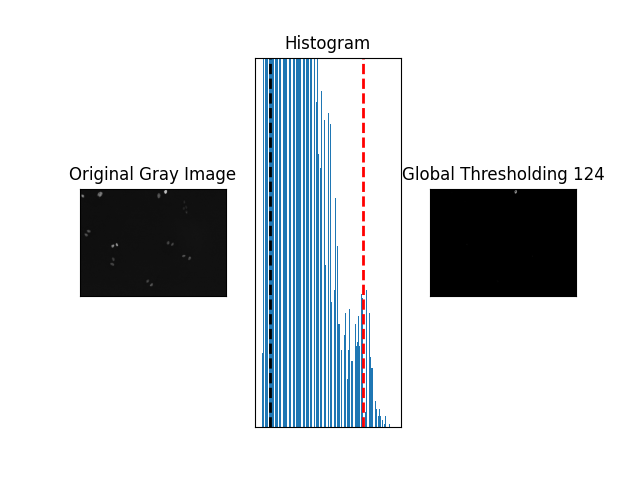
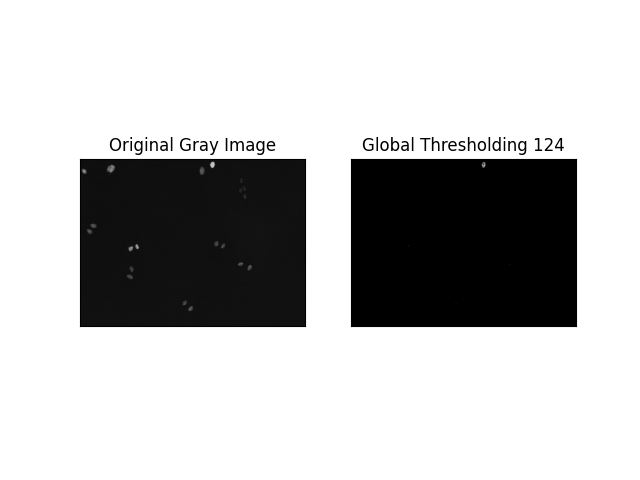
Falta 2C

Changed region(s): [[0.0938, 0.0625, 0.9688, 0.9062], [0.1875, 0.5, 0.2188, 0.5312], [0.125, 0.4688, 0.1562, 0.5]]

diff --git a/scritps/questao2.py b/scritps/questao2.py
@@ -64,6 +64,7 @@ class Questao2:
             B, G, R = cv2.split(final)
             gray_image=np.full((height, width), R-B, dtype=np.uint8)
 
+            ################################################### A
             # Estratégia proposta por nós
             initial_th=np.mean(gray_image)
             ret_first,img_first = cv2.threshold(gray_image,initial_th,255,cv2.THRESH_BINARY)
@@ -77,11 +78,19 @@ class Questao2:
             titles = ['Original Gray Image','Histogram','Global Thresholding '+str(int(second_th))]
 
             # Plot da imagem original
-            plt.subplot(1,3,1),plt.imshow(gray_image,'gray')
+            plt.subplot(1,2,1),plt.imshow(gray_image,'gray')
             plt.title(titles[0]), plt.xticks([]), plt.yticks([])
 
+            # Plot da imagem resultante do nosso método
+            plt.subplot(1,2,2),plt.imshow(img_our_method,'gray')
+            plt.title(titles[2]), plt.xticks([]), plt.yticks([])
+
+            print(img_file_out.split(".")[0])
+            plt.savefig(PATH_TO_IMGS_Q2+img_file_out.split(".")[0]+"a.png")
+            plt.close()
+
             # Histograma com eixo y limitado para facilitar a visualização
-            plt.subplot(1,3,2),plt.hist(gray_image.ravel(),256)
+            plt.hist(gray_image.ravel(),256)
             plt.title(titles[1]), plt.xticks([]), plt.yticks([])
             ax = plt.gca()
             ax.set_ylim([0, 100])
@@ -90,14 +99,31 @@ class Questao2:
             # Segundo e limiar final em vermelho
             plt.axvline(int(second_th), color='r', linestyle='dashed', linewidth=2)
 
-            # Plot da imagem resultante do nosso método
-            plt.subplot(1,3,3),plt.imshow(img_our_method,'gray')
+            plt.savefig(PATH_TO_IMGS_Q2+img_file_out.split(".")[0]+"aHIST.png")
+            plt.close()
+
+            ################################################### B
+            #  Otsu's thresholding
+            ret_otsu,img_otsu = cv2.threshold(gray_image,0,255,cv2.THRESH_BINARY+cv2.THRESH_OTSU)
+
+            # plot all the images and their histograms
+            images = [gray_image, 0, img_otsu]
+            titles = ['Original Gray Image','Histogram',"Otsu's Thresholding"]
+
+            # Plot da imagem original
+            plt.subplot(1,2,1),plt.imshow(gray_image,'gray')
+            plt.title(titles[0]), plt.xticks([]), plt.yticks([])
+
+            # Plot da imagem resultante do Otsu
+            plt.subplot(1,2,2),plt.imshow(img_our_method,'gray')
             plt.title(titles[2]), plt.xticks([]), plt.yticks([])
 
-            print(img_file_out.split(".")[0])
-            plt.savefig(PATH_TO_IMGS_Q2+img_file_out.split(".")[0]+"a.png")
-            plt.close()
-            #plt.show()
+            plt.savefig(PATH_TO_IMGS_Q2+img_file_out.split(".")[0]+"b.png")
+            plt.close()          
+
+            ################################################### C
+
+
 
         print("questao2 executada")
 
